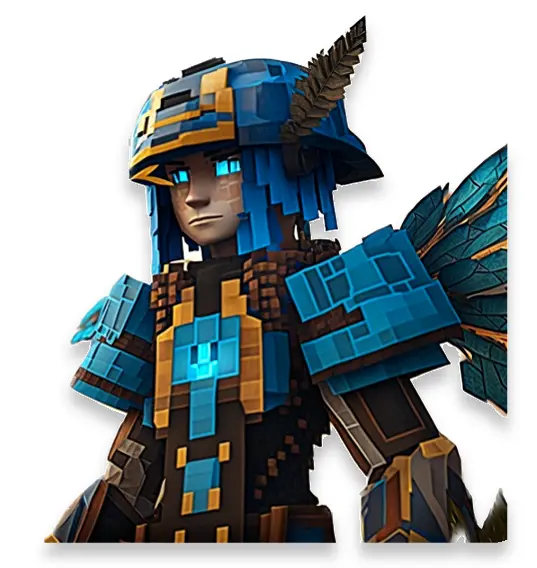
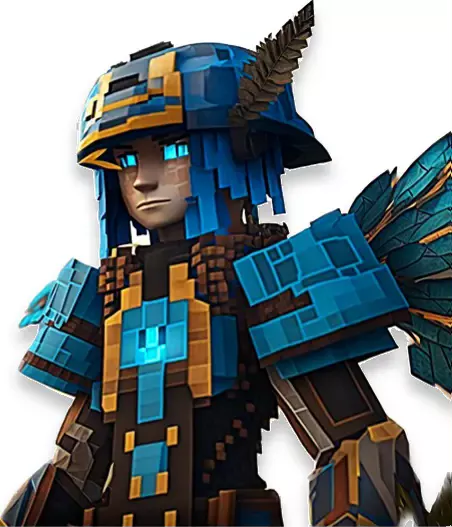
Adding Prop to Change width

diff --git a/src/pages/CursoInfantil/CursoInfantil.jsx b/src/pages/CursoInfantil/CursoInfantil.jsx
@@ -32,7 +32,8 @@ function CursoInfantil() {
 
 
             <Stack pt={18} px={xPadding}>
-                <GroupBanner img={character} title={groupBannerTitle} description={groupBannerDescription}/>
+                <GroupBanner img={character} title={groupBannerTitle} description={groupBannerDescription}
+                             imgWidth={120}/>
                 <Group noWrap spacing={"xs"}>
                     <Badge size={"xl"} variant={"filled"} color={"teal.7"} radius={"md"}
                            leftSection={<Center><IconBrush size={22}/></Center>}>Imaginación</Badge>
@@ -43,7 +44,12 @@ function CursoInfantil() {
                 <CourseDescriptionCard mainImage={Mansion} bkColor={"#0CA678"} btnColor={"teal.7"}/>
                 <StackBanner mainImage={stackBannerImg} title={stackBannerTitle}/>
                 <Modules/>
-                <GroupBanner img={npc} title={groupBannerTitle} description={groupBannerDescription}></GroupBanner>
+                <GroupBanner
+                    img={npc}
+                    title={groupBannerTitle}
+                    description={'Lorem ipsum dolor sit amet, consectetur adipiscing elit. Integer sollicitudin et enim  incidunt laoreet. Nunc auc tor eu ante in blandit. In interdum vel elit eu sollicitudin Ut pretium blandit tincidunt. Vestibulum congue est  felis, at tristique tellus rhoncus eu. '}
+                    imgWidth={150}
+                />
             </Stack>
         </>
     )

diff --git a/src/pages/CursoInfantil/components/GroupBanner/GroupBanner.jsx b/src/pages/CursoInfantil/components/GroupBanner/GroupBanner.jsx
@@ -2,14 +2,14 @@ import {Group, Image, Stack, Text, Title} from "@mantine/core";
 import React from "react";
 
 
-function GroupBanner({img, title, description}) {
+function GroupBanner({img, title, description, imgWidth}) {
 
     return (
         <Stack>
             <Title order={4} weight={500}>{title}</Title>
             <Group noWrap align="start" spacing={0}>
                 <Text fz={14}>{description}</Text>
-                <Image radius="md" src={img} width={120}/>
+                <Image radius="md" src={img} width={imgWidth}/>
             </Group>
         </Stack>
     )
